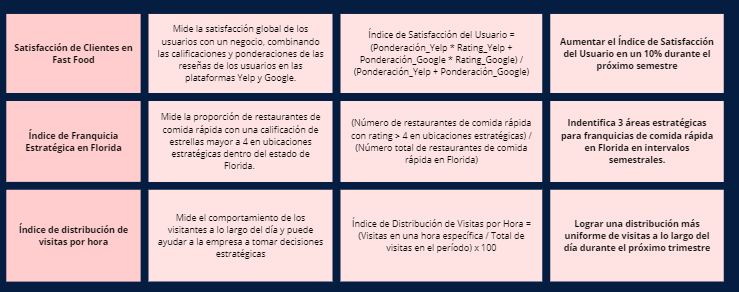
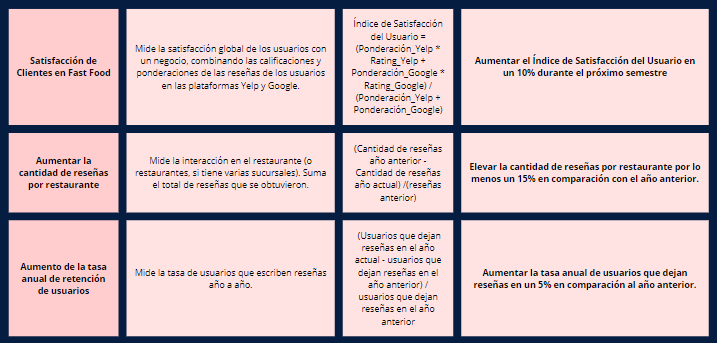
Second Commit

diff --git a/README.md b/README.md
@@ -5,8 +5,6 @@
 
 ## Introducción
 
-**¿Quiénes somos?**
-
 Somos una firma de consultoría especializada en análisis de datos, reconocida bajo el nombre de MINDFUL DATA. Nuestra labor se centra en el análisis de información procedente de plataformas de reseñas líderes. Nuestro principal objetivo radica en la identificación de patrones y tendencias en las opiniones de los usuarios, con el fin de lograr una comprensión más profunda de sus experiencias, necesidades y expectativas en relación a diversos servicios.
 
 Este proyecto responde a la necesidad del inversor gastronómico proveniente del estado de Florida que planea instalar una franquicia de comida rápida en Florida y quiere que nuestra consultora realice un análisis de dos fuentes principales de información: Las opiniones de los usuarios en Yelp y Google Maps para recomendarle qué franquicia de fast food le conviene adquirir y en qué lugar del estado de Florida. 
@@ -30,7 +28,7 @@ Para cumplir con este objetivo, nuestro equipo se ha propuesto las siguientes me
 
 ## Alcance
 
-Este proyecto se centrará en el análisis de las reseñas de los últimos 5 años de Yelp y Google Maps acerca de las cadenas de fast food más importantes de Estados Unidos con el objetivo de identificar cuál es la mejor opción a la hora de adquirir una franquicia y determinar en qué ciudad del estado de Florida conviene colocarla. 
+Este proyecto se centrará en el análisis de las reseñas de los últimos 5 años de Yelp y Google Maps acerca de las cadenas de fast food más importantes de Florida, Estados Unidos, con el objetivo de identificar cuál es la mejor opción a la hora de adquirir una franquicia y determinar en qué ciudad del estado de Florida conviene colocarla. 
 
 <br>
 
@@ -41,7 +39,7 @@ Cabe mencionar, que como la metodología de trabajo es por etapas, los roles pue
 
 <br>
 
-![roles](https://github.com/sebasdines/PF_DS_Henry/blob/master/src/Roles.png)
+![Roles](https://github.com/sebasdines/PF_DS_Henry/blob/master/src/Roles.png)
 
 <br>
 
@@ -57,20 +55,11 @@ Se adopta la metodología de trabajo Scrum con entregas parciales sobre los avan
 
 <br>
 
-## Workflow
+## Gestión de las tareas
 
-Optamos por Google Cloud como servicio en la nube para gestionar los datos, automatizar procesos y para el  procesamiento de aprendizaje automático :
+Para poder cumplir con los objetivos propuestos semanalmente, se fueron gestionando tareas con ayuda de Trello. Las tareas, su duración y fecha, su avance y porcentaje de completitud se presentan en el siguiente enlace. 
 
-Cloud Storage Buckets como datalake
-Vertex Workbench para realizar el ETL de los datos
-BigQuery, como datawarehouse para almacenar y procesar los datos.
-Vertex AI para  implementar los modelos de aprendizaje.
-Looker Studio como herramienta de visualización de datos y KPIs.
-
-<br>
-
-
-![workflow](./src/workflow.png)
+[Diagrama de Gantt](https://app.ganttpro.com/shared/token/4fb6cd5fc6aea61fe85b23587efc279e50d1d4a2a198f16af78175ced20fd585/1250504#/)
 
 <br>
 
@@ -89,7 +78,9 @@ El análisis exploratorio de datos se presenta en el archivo: [EDA_preliminar.ip
 <br>
 
 
-## KPIs
+## Indicadores claves de rendimiento (KPIs)
+
+A continuación se presentan los 5 KPIs propuestos y sus métricas asociadas.
 
 ![KPI](https://github.com/sebasdines/PF_DS_Henry/blob/master/src/KPI1.png)
 
@@ -97,11 +88,49 @@ El análisis exploratorio de datos se presenta en el archivo: [EDA_preliminar.ip
 
 <br>
 
+## Arquitectura 
+
+Optamos por Google Cloud como servicio en la nube para gestionar los datos, automatizar procesos y para el  procesamiento de aprendizaje automático :
+
+- Cloud Storage Buckets como datalake
+- Cloud Functions para realizar el ETL de los datos
+- BigQuery, como datawarehouse para almacenar y procesar los datos.
+- Vertex AI para  implementar los modelos de aprendizaje.
+- Tableau como herramienta de visualización de datos y KPIs.
+
+<br>
+
+El workflow del proceso se presenta a continuación:
+
+![workflow](./src/workflow.png)
+
+<br>
+
+## Diagrama Entidad - Relación
+
+A continuación se presenta el diagrama entidad - relación del modelo presente en Big Query. 
+
+<br>
+
+![diagramaER](./src/diagramaER.png)
+
+<br>
 
 ## Entregables
-Los entregables de esta semana se encuentran en la carpeta Semana 1: 
+
+Los entregables de la semana 1 se encuentran en la carpeta semana_1: 
 
 - Tratamiento de datos previo al EDA preliminar: [Yelp.ipynb](Semana_1/Yelp.ipynb)  y [Google_maps.ipynb](Semana_1/Google_maps.ipynb)
 - [EDA_preliminar.ipynb](Semana_1/EDA_preliminar.ipynb)
 - [Informe](Semana_1/Informe.pdf)
 - [Presentacion](Semana_1/Presentacion.pdf)
+
+
+Los entregables de la semana 2 se encuentran en la carpeta semana_2: 
+
+- ETL de los archivos en local:  [ETL_yelp.ipynb](Semana_2/ETL_yelp.ipynb), [ETL_gmaps.ipynb](Semana_2/ETL_gmaps.ipynb), [ETL_gmaps_reviews.ipynb](Semana_2/ETL_gmaps_reviews.ipynb)
+- [Informe](Semana_2/Informe.pdf)
+- [Presentacion](Semana_2/Presentacion.pdf)
+
+
+
